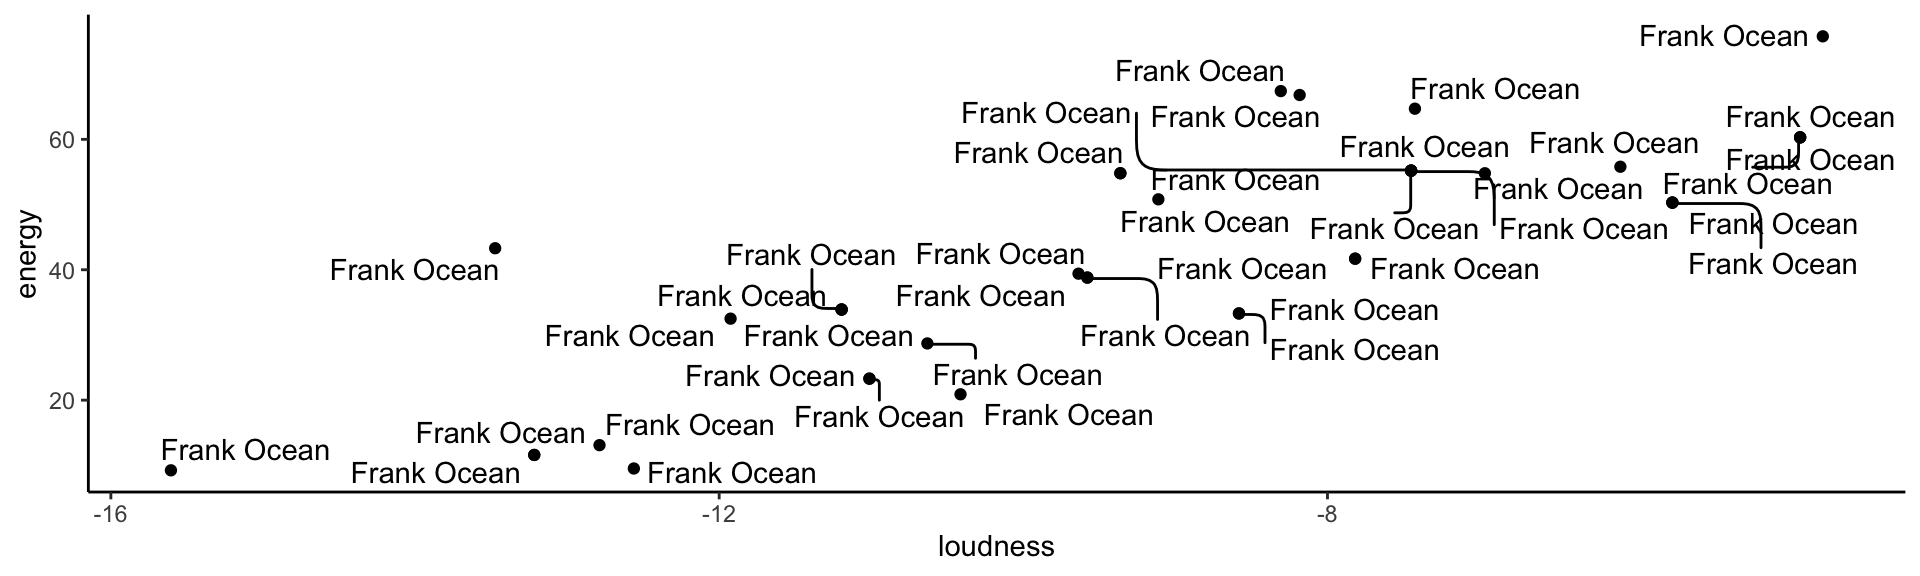
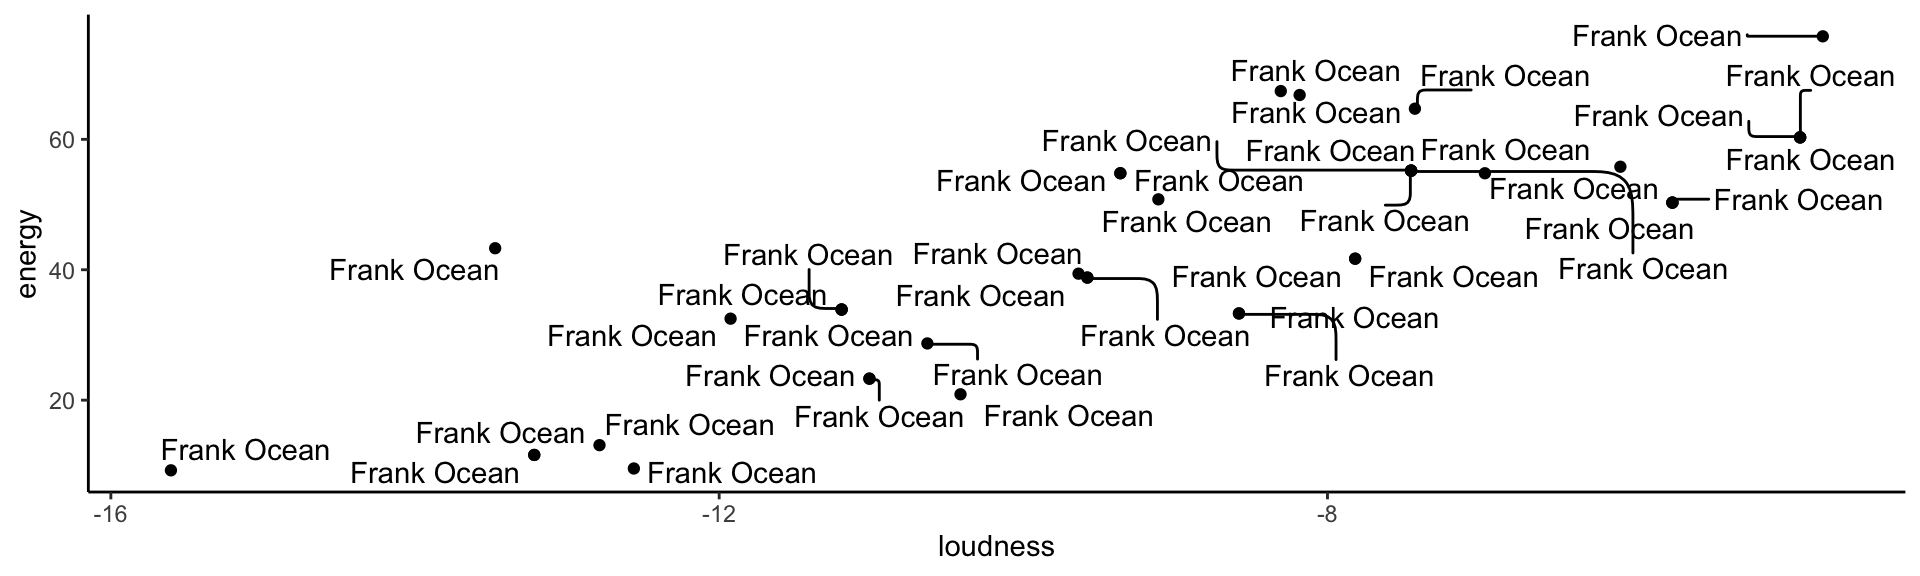
Final R tip of the day

diff --git a/SDS264/inclass_work/r-tip-of-day.html b/SDS264/inclass_work/r-tip-of-day.html
@@ -432,8 +432,8 @@ Morgan Ryan
 <span id="cb2-3"><a href=""></a>  <span class="fu">geom_point</span>() <span class="sc">+</span></span>
 <span id="cb2-4"><a href=""></a>  <span class="fu">theme_classic</span>()</span></code><button title="Copy to Clipboard" class="code-copy-button"><i class="bi"></i></button></pre></div>
 </section>
-<section id="the-ggrepel-package" class="slide level2" data-auto-animate="true">
-<h2 data-id="quarto-animate-title">The ggrepel package</h2>
+<section id="the-ggrepel-package" class="slide level2">
+<h2>The ggrepel package</h2>
 <div class="fragment fade-in">
 <ul>
 <li>Consists of geom_text_repel() and geom_label_repel()</li>
@@ -467,8 +467,8 @@ Morgan Ryan
 <span id="cb3-6" class="hljs-ln-code"><a href=""></a>  <span class="fu">theme_classic</span>()</span></code><button title="Copy to Clipboard" class="code-copy-button"><i class="bi"></i></button></pre></div>
 </div>
 </section>
-<section id="arguments-max.overlaps-1" class="slide level2" data-auto-animate="true">
-<h2 data-id="quarto-animate-title">Arguments: max.overlaps</h2>
+<section id="arguments-max.overlaps-1" class="slide level2">
+<h2>Arguments: max.overlaps</h2>
 <div class="fragment fade-in">
 <p>Which looks like this before we add the argument</p>
 <div class="cell">
@@ -581,8 +581,8 @@ Morgan Ryan
 <span id="cb8-5" class="hljs-ln-code"><a href=""></a>  <span class="fu">theme_classic</span>()</span></code><button title="Copy to Clipboard" class="code-copy-button"><i class="bi"></i></button></pre></div>
 </div>
 </section>
-<section id="aesthetics" class="slide level2" data-auto-animate="true">
-<h2 data-id="quarto-animate-title">Aesthetics</h2>
+<section id="aesthetics" class="slide level2">
+<h2>Aesthetics</h2>
 <p>We have options to change how the labels appear</p>
 <div>
 <ul>
@@ -604,8 +604,8 @@ Morgan Ryan
 <span id="cb9-3" class="hljs-ln-code"><a href=""></a>    <span class="fu">geom_point</span>() <span class="sc">+</span></span>
 <span id="cb9-4" class="hljs-ln-code"><a href=""></a>    <span class="fu">theme_classic</span>() </span></code><button title="Copy to Clipboard" class="code-copy-button"><i class="bi"></i></button></pre></div>
 </section>
-<section id="the-positives-and-negatives-of-ggrepel" class="slide level2" data-auto-animate="true">
-<h2 data-id="quarto-animate-title">The positives and negatives of ggrepel</h2>
+<section id="the-positives-and-negatives-of-ggrepel" class="slide level2">
+<h2>The positives and negatives of ggrepel</h2>
 <div>
 <ul>
 <li class="fragment">Benefits:
